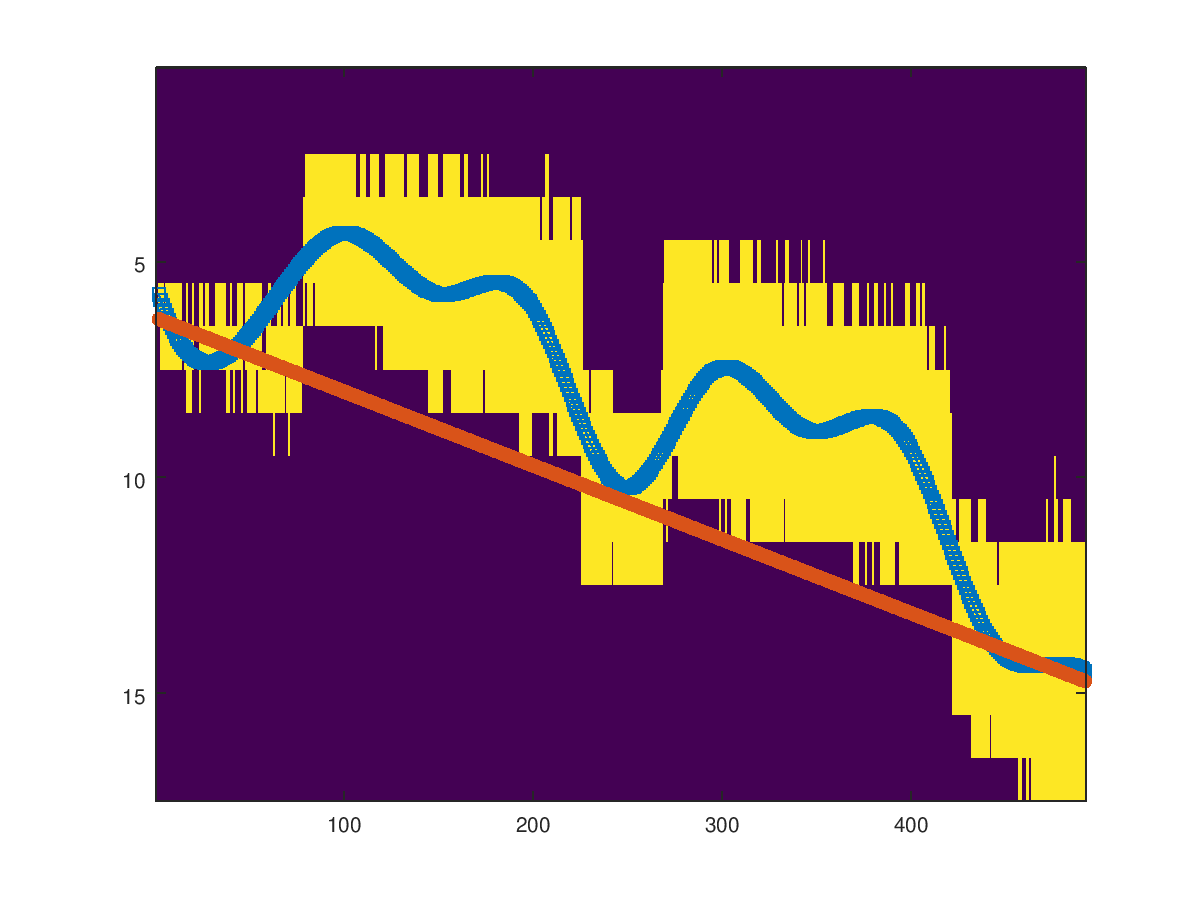
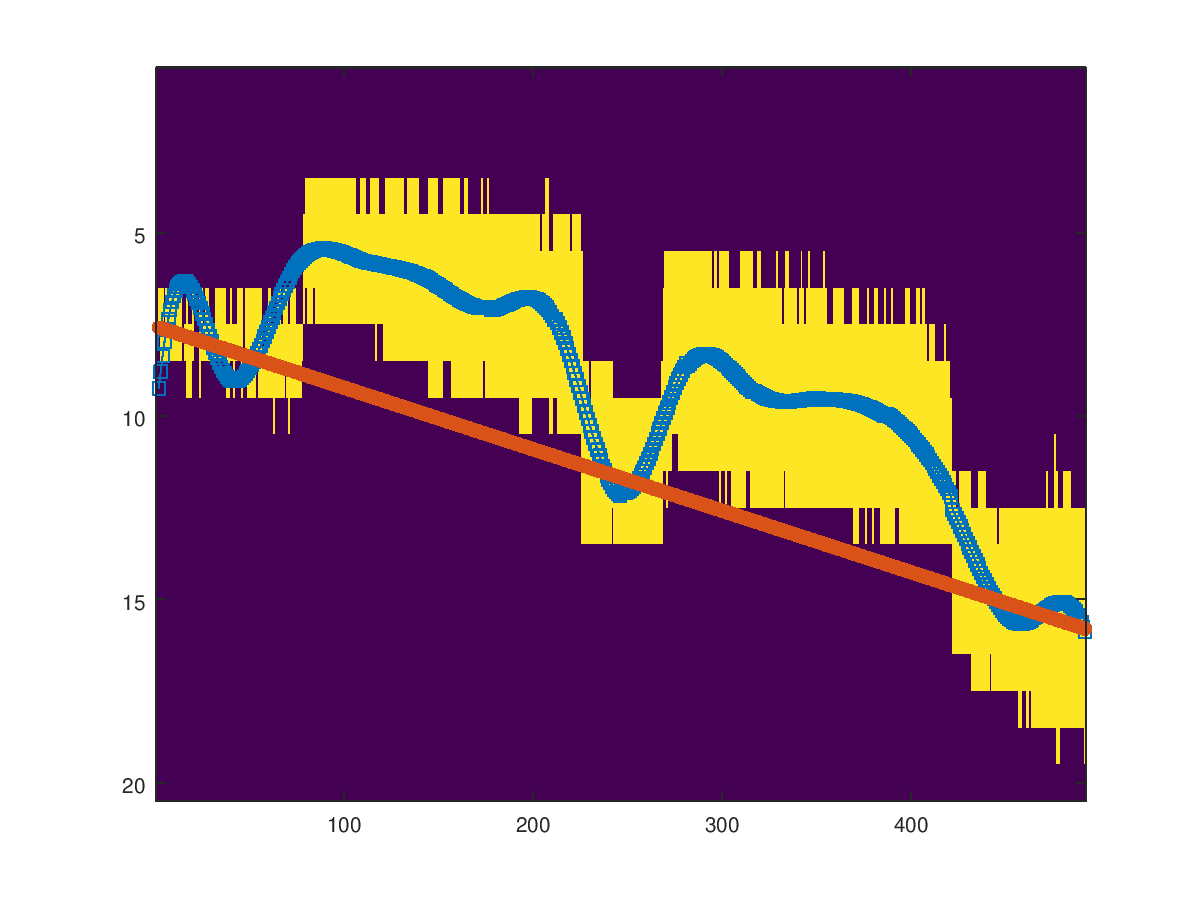
Ordenando

diff --git a/mcode/teste.m b/mcode/teste.m
@@ -9,7 +9,6 @@ addpath(genpath('lib-mcode'))
 %%%%%%%%%%%%%%%%%%%%%%%%%%%%%%%%%%%%%%%%%%%%%%%%%%%%%%%%%%%%%%%%%%%%%%%%%%%%%%%%
 
 IMAGEPATH='../images/8 bits/4cd.bmp';
-NORM_UMBRAL=0.60;
 
 %%%%%%%%%%%%%%%%%%%%%%%%%%%%%%%%%%%%%%%%%%%%%%%%%%%%%%%%%%%%%%%%%%%%%%%%%%%%%%%%
 
@@ -35,7 +34,7 @@ IMG_BIN=IMG>0.5;
 R = LineDetector(IMG_BIN);
 
 %% STEP 2
-R.set_reconstruction_parts(10);
+R.set_reconstruction_parts(14);
 [X Y]=R.calculates_curve();
 
 %% STEP 3 (FINAL)

diff --git a/mcode/lib-mcode/splines3/lms_splines3.m b/mcode/lib-mcode/splines3/lms_splines3.m
@@ -44,7 +44,7 @@ function [P XINT]=lms_splines3(X,Y,NPARTS,varargin)
         plast=p;
         p=p+inv(At'*C*At+0.00001*eye(length(p)))*At'*C*(Yt-At*p);
 
-        E=100*max(abs(p-plast))/mean(abs(p));
+        E=100*max(abs(p-plast))/min(abs(p(abs(p) > 0)));% mean(abs(p));
 
         EEtmp=sqrt(meansq(Yt-At*p));     
         EE=[EE EEtmp];

diff --git a/mcode/lib-mcode/Tools/plot_all_results.m b/mcode/lib-mcode/Tools/plot_all_results.m
@@ -13,6 +13,7 @@ function plot_all_results(IMAGEPATH,IMG_BIN,XREF,YREF,X,Y)
     %%%%%%%%%%%%%%%%%%%%%%%%%%%%%%%%%%%%%%%%%%%%%%%%%%%%%%%%%%%%%%%%%%%%%%%%%%%%%%%%
     %%%%%%%%%%%%%%%%%%%%%%%%%%%%%%%%%%%%%%%%%%%%%%%%%%%%%%%%%%%%%%%%%%%%%%%%%%%%%%%%
 
+    figure;
     imagesc(IMG_BIN)
     hold on
         plot(X,Y,'-s');

diff --git a/mcode/lib-mcode/LineDetector/LineDetector.m b/mcode/lib-mcode/LineDetector/LineDetector.m
@@ -60,6 +60,7 @@ classdef LineDetector  < handle
         %% Intenta deduzir qual es la curva de referencia
         function [XREF YREF]=calculates_curve_ref(obj,X)
 
+            figure;
             image(obj.IMG_BIN*255)
 
             lin=0;col=0;
